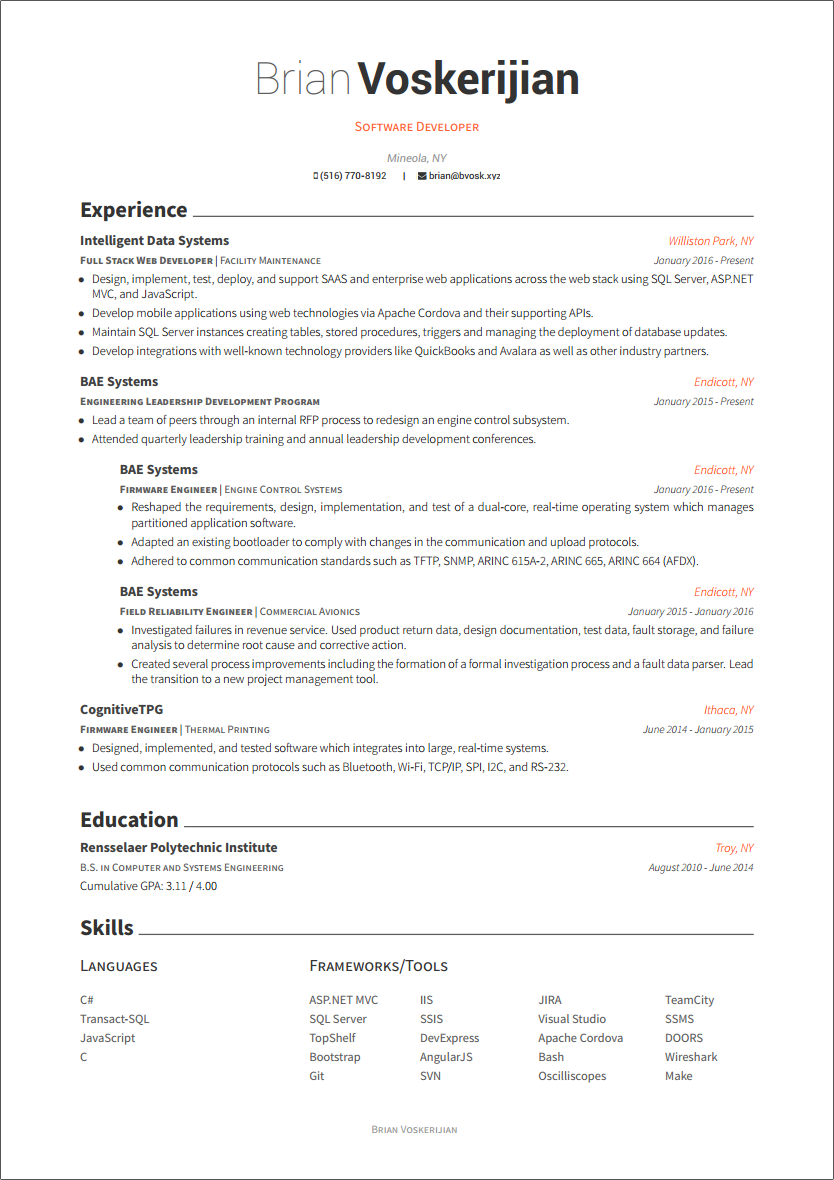
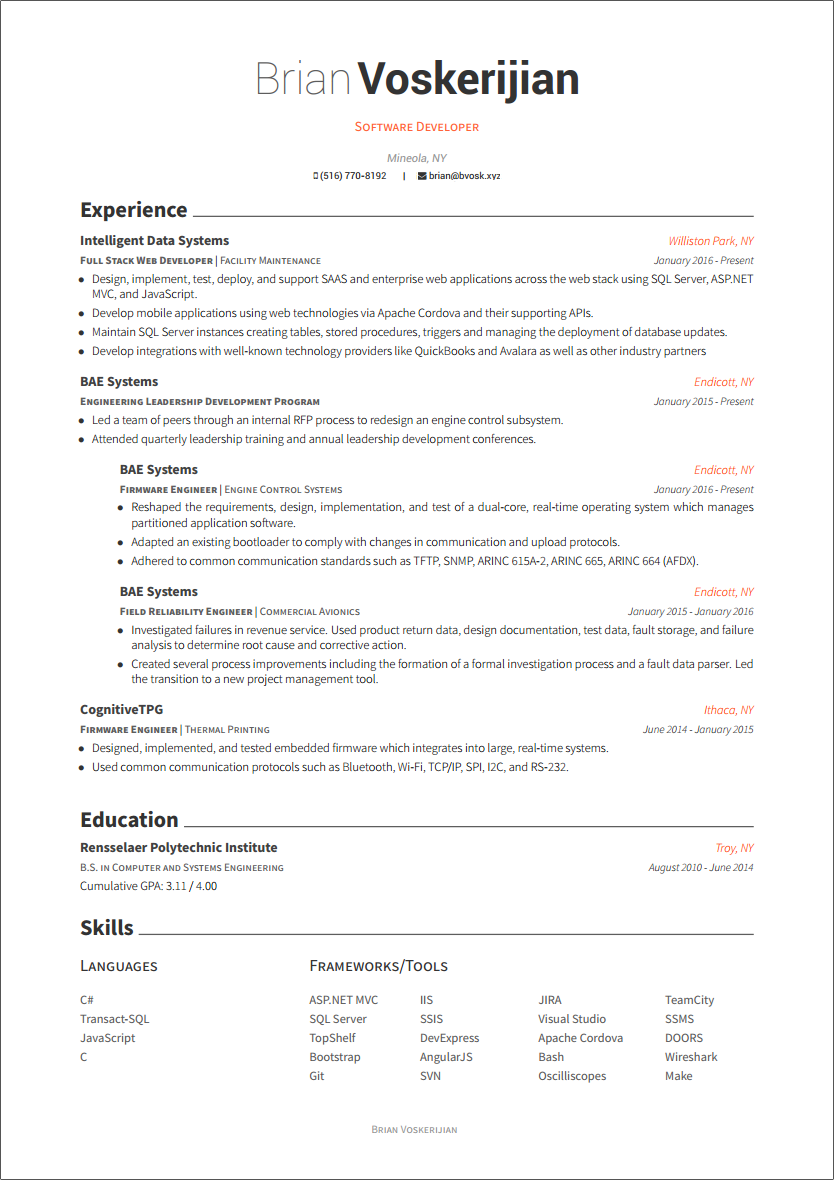
Proofread

diff --git a/resume/experience.tex b/resume/experience.tex
@@ -20,7 +20,7 @@
     {January 2015 - Present}
     {
       \begin{cvitems}
-      	\item {Lead a team of peers through an internal RFP process to redesign an engine control subsystem.}
+      	\item {Led a team of peers through an internal RFP process to redesign an engine control subsystem.}
         \item {Attended quarterly leadership training and annual leadership development conferences.}
       \end{cvitems}
     }
@@ -32,7 +32,7 @@
     {
       \begin{cvitemstwo}
         \item{Reshaped the requirements, design, implementation, and test of a dual-core, real-time operating system which manages partitioned application software.}
-        \item{Adapted an existing bootloader to comply with changes in the communication and upload protocols.}
+        \item{Adapted an existing bootloader to comply with changes in communication and upload protocols.}
         \item{Adhered to common communication standards such as TFTP, SNMP, ARINC 615A-2, ARINC 665, ARINC 664 (AFDX).}
       \end{cvitemstwo}
     }
@@ -44,7 +44,7 @@
     {
       \begin{cvitemstwo}
         \item {Investigated failures in revenue service. Used product return data, design documentation, test data, fault storage, and failure analysis to determine root cause and corrective action.}
-        \item {Created several process improvements including the formation of a formal investigation process and a fault data parser. Lead the transition to a new project management tool.}
+        \item {Created several process improvements including the formation of a formal investigation process and a fault data parser. Led the transition to a new project management tool.}
       \end{cvitemstwo}
     }
   \cventry
@@ -54,7 +54,7 @@
     {June 2014 - January 2015}
     {
       \begin{cvitems}
-        \item {Designed, implemented, and tested software which integrates into large, real-time systems.}
+        \item {Designed, implemented, and tested embedded firmware which integrates into large, real-time systems.}
         \item {Used common communication protocols such as Bluetooth, Wi-Fi, TCP/IP, SPI, I2C, and RS-232.}
       \end{cvitems}
     }
